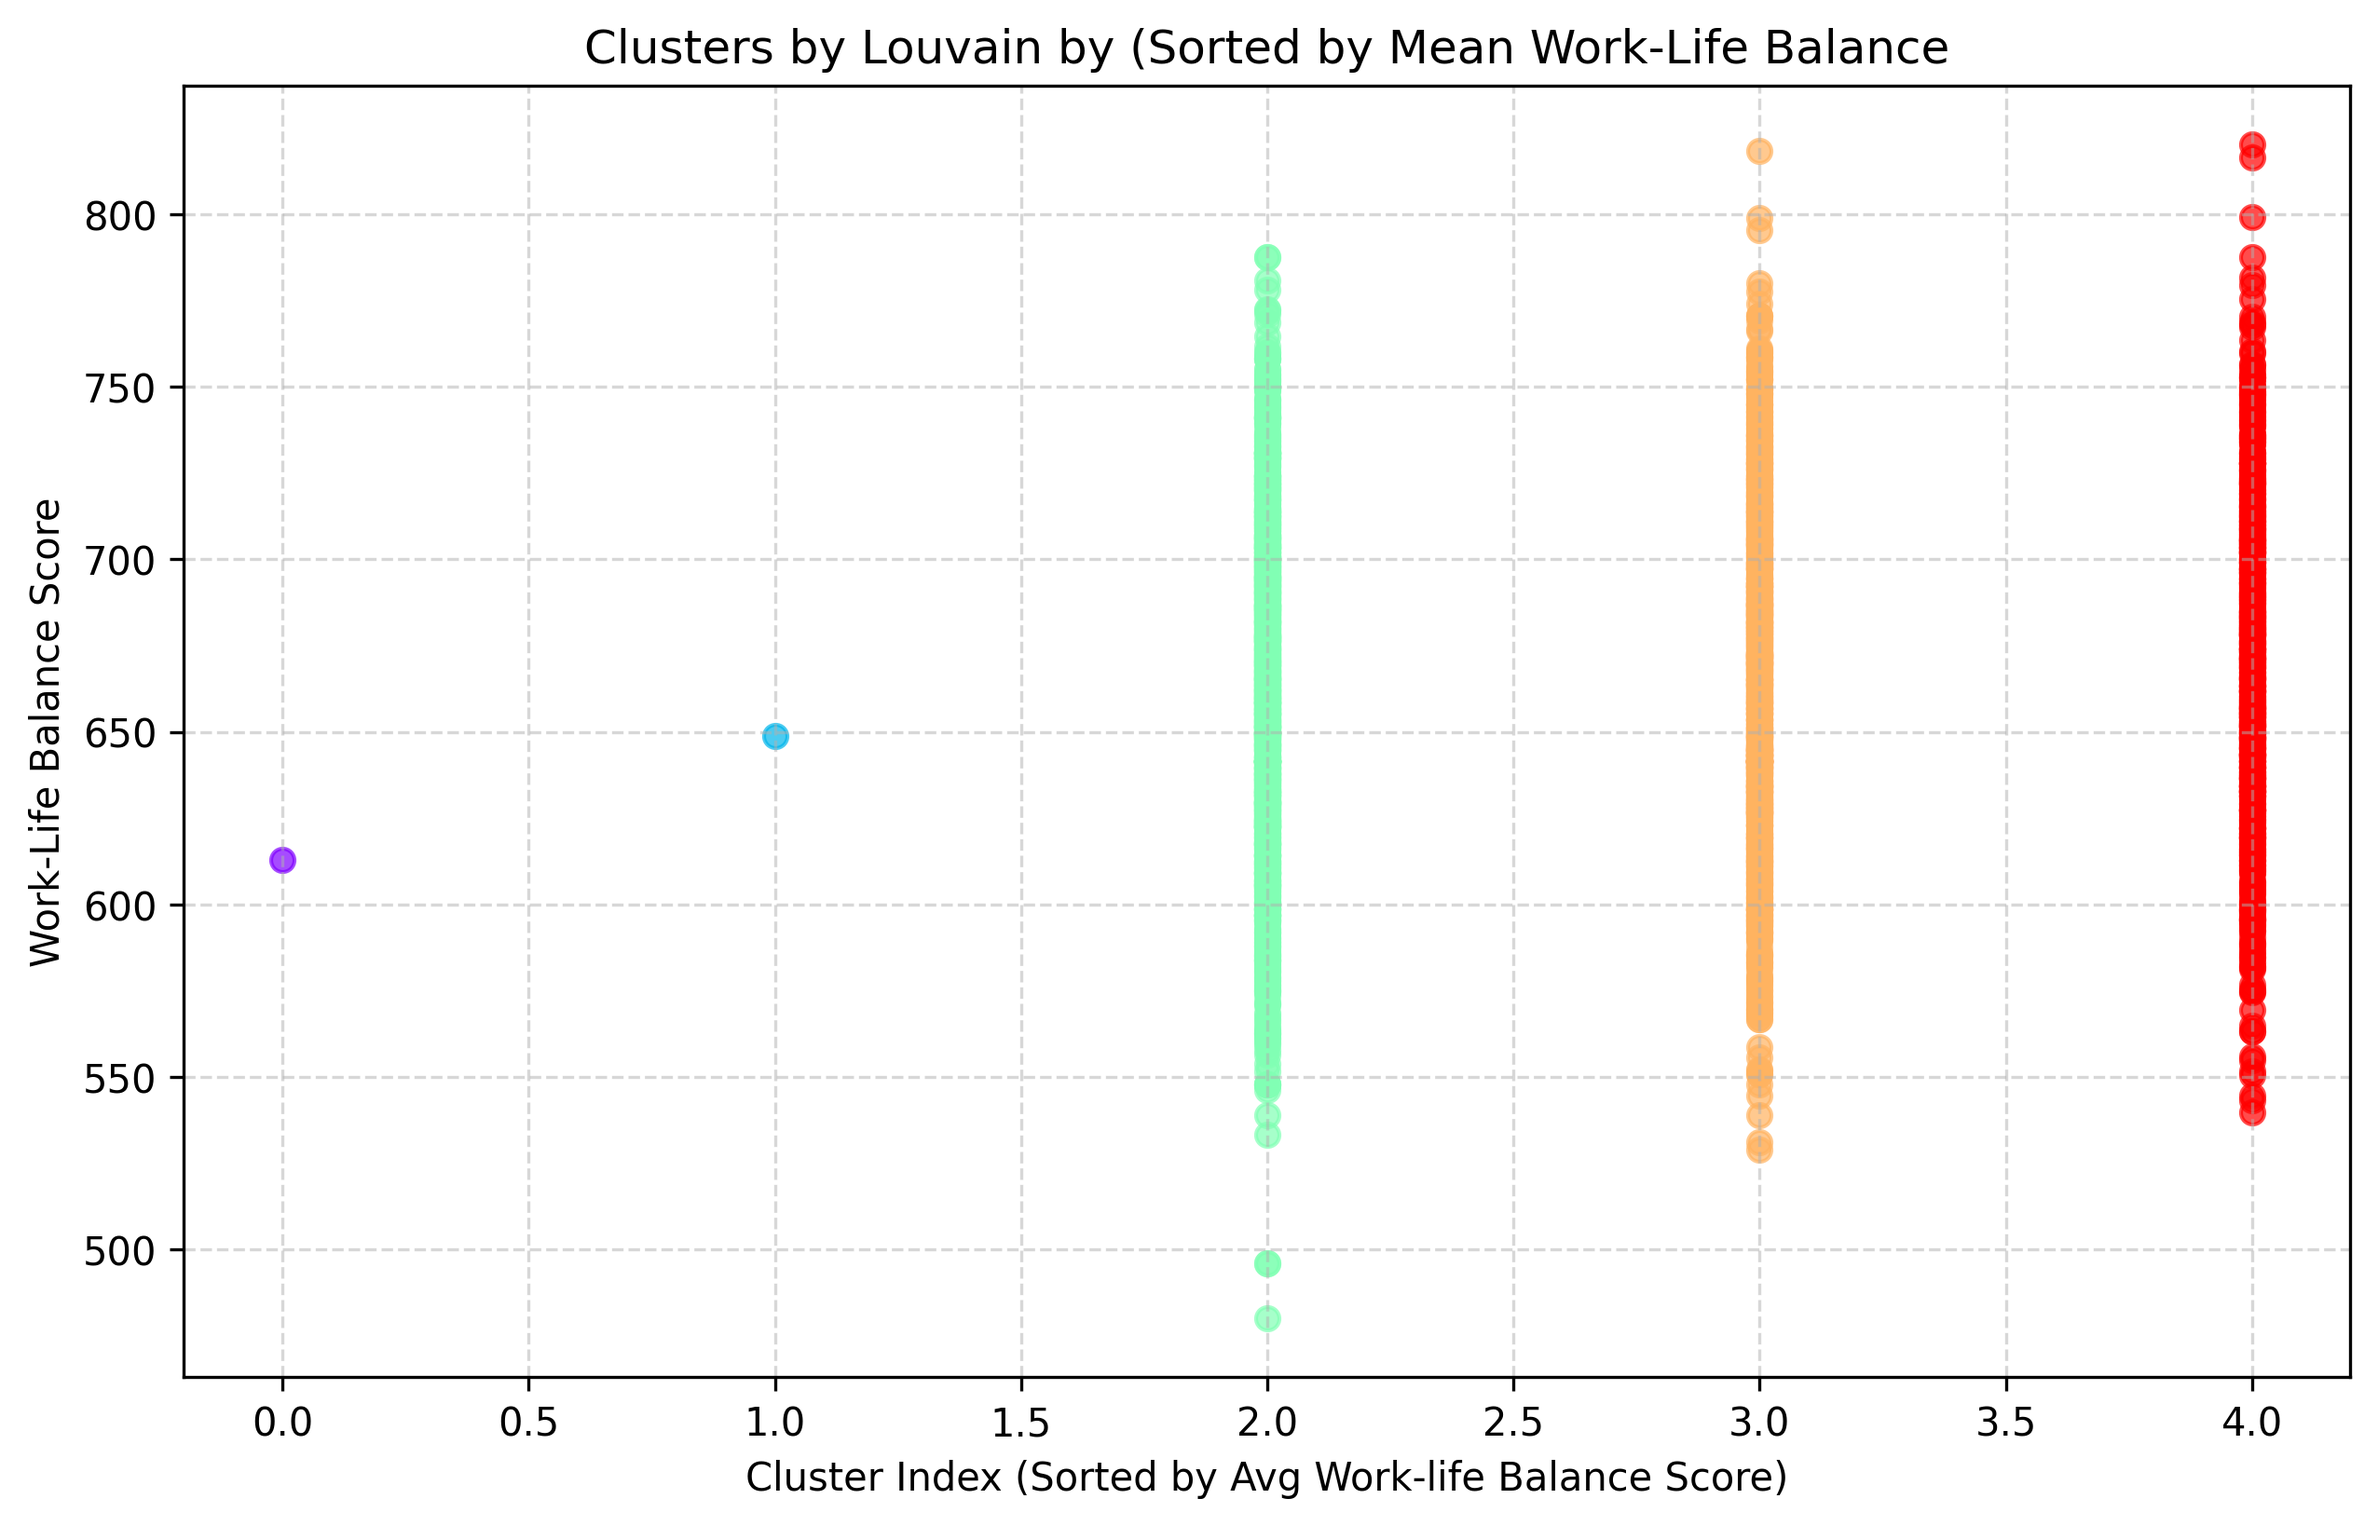
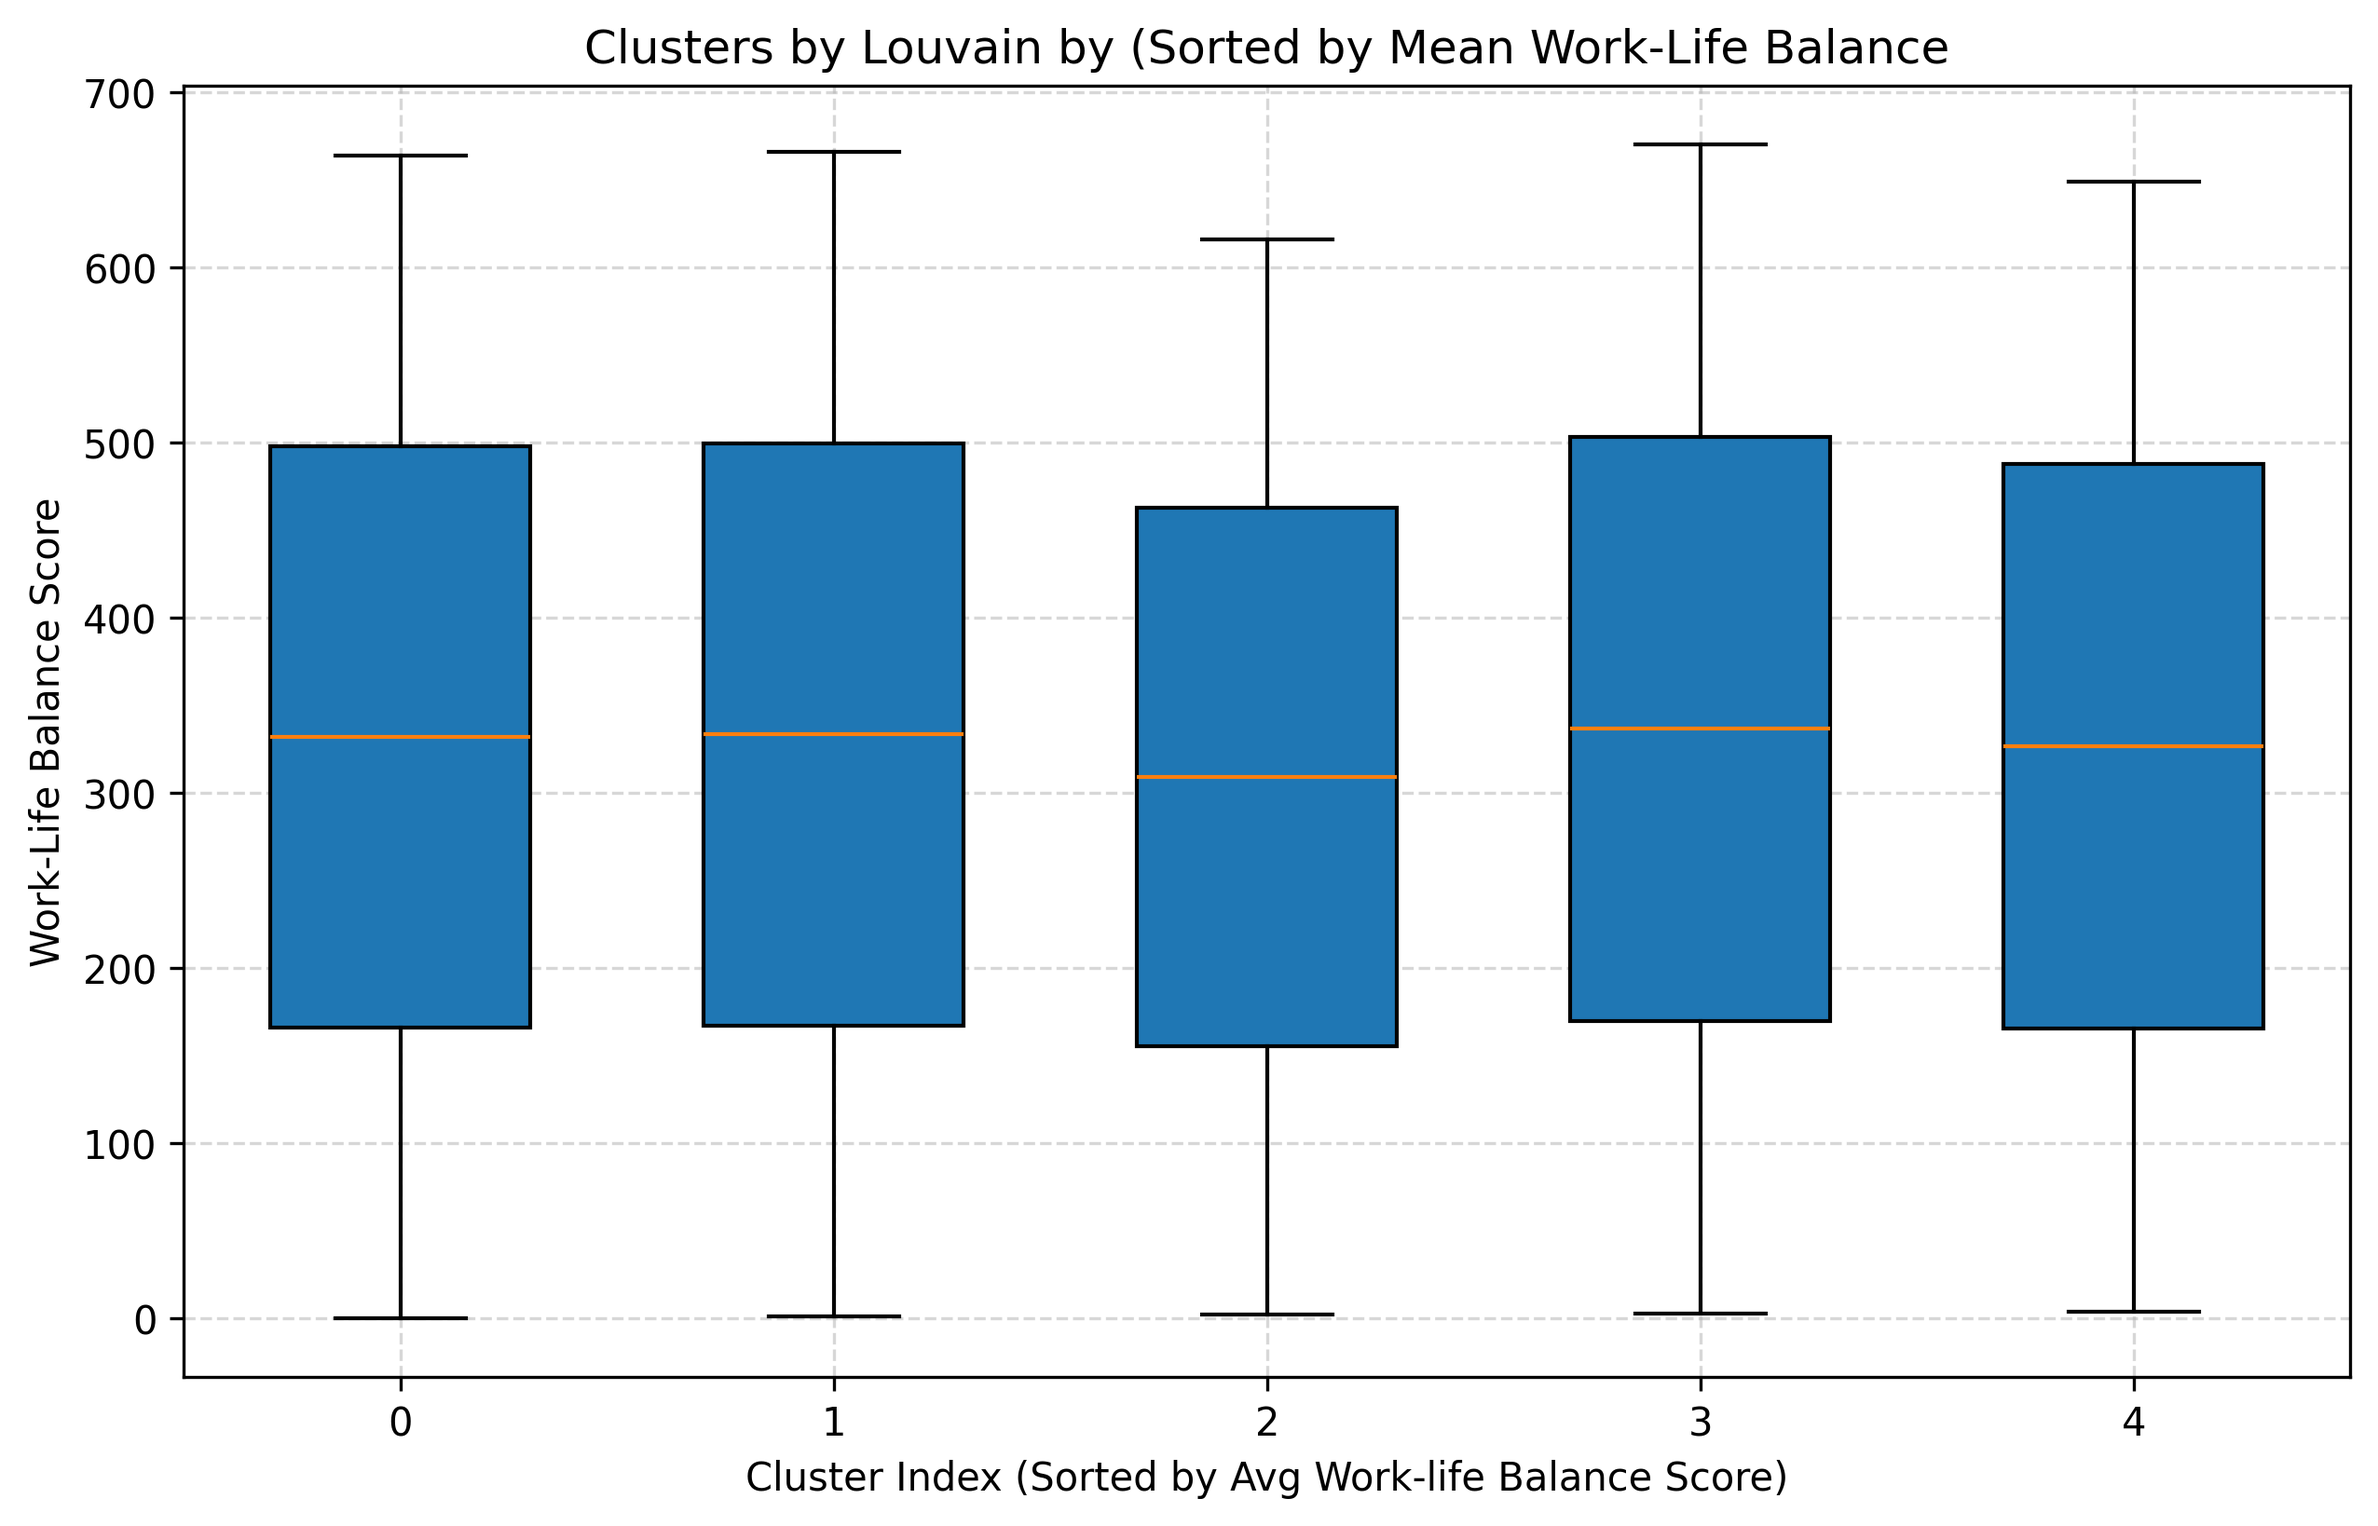
louvain boxplot

diff --git a/main.py b/main.py
@@ -2,6 +2,9 @@ import pickle
 from sklearn.model_selection import train_test_split
 from sklearn.preprocessing import StandardScaler, MinMaxScaler
 from sklearn.metrics import mean_squared_error
+import matplotlib.pyplot as plt
+import pandas as pd
+import seaborn as sns
 import utils
 
 # load data
